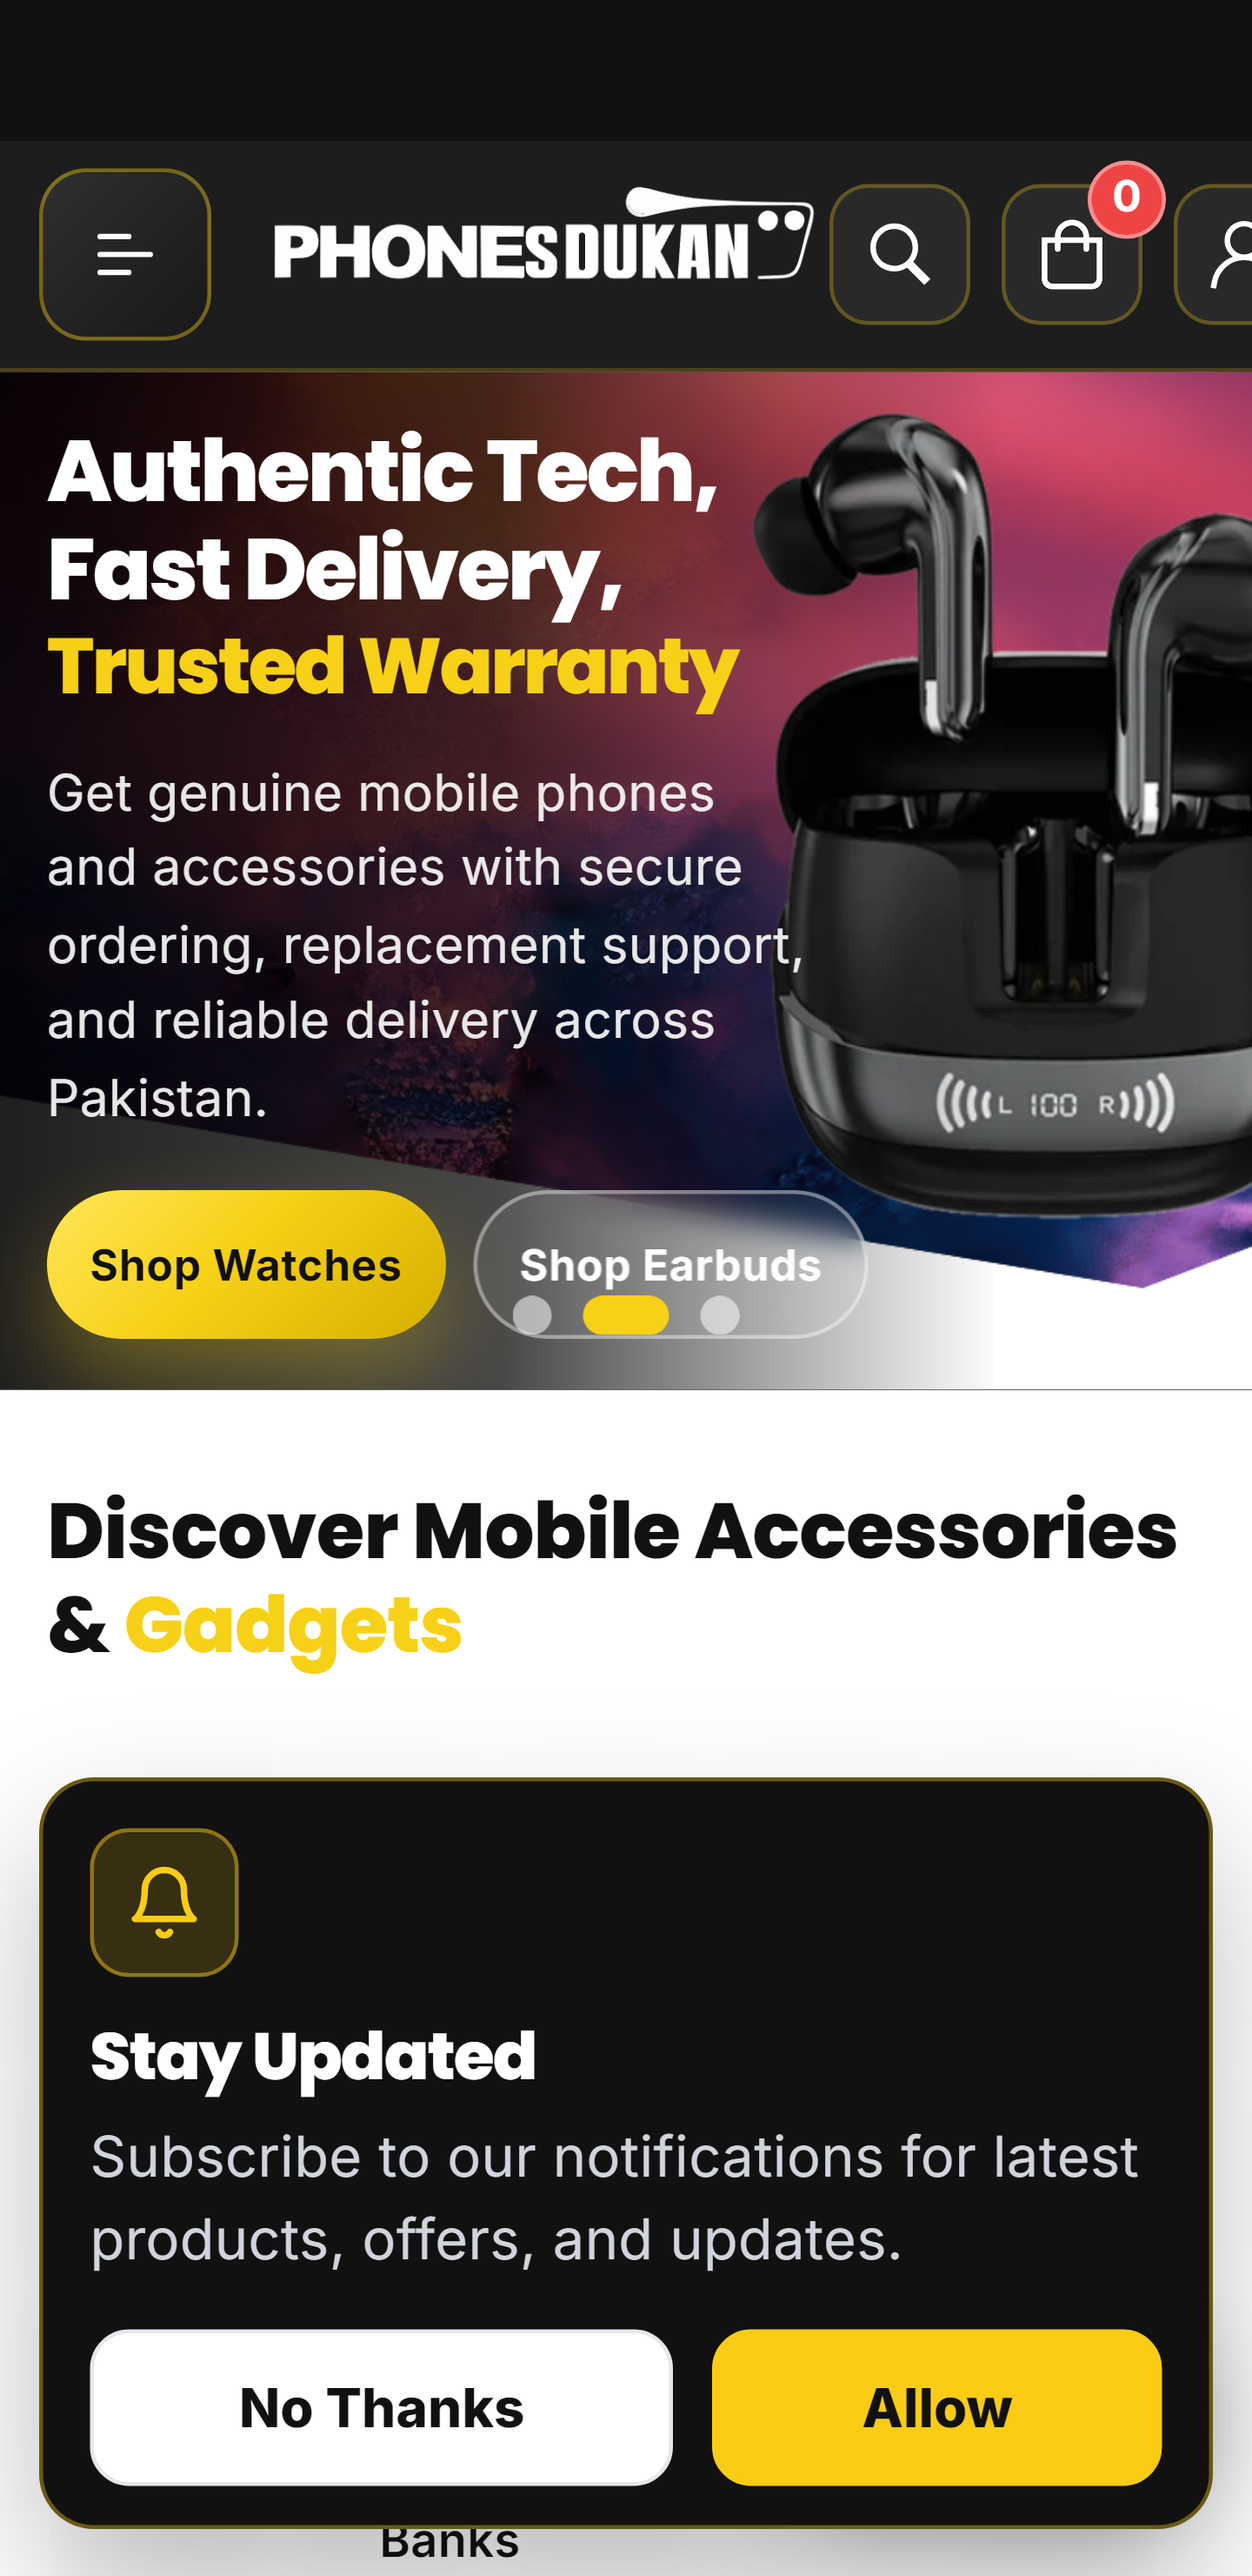
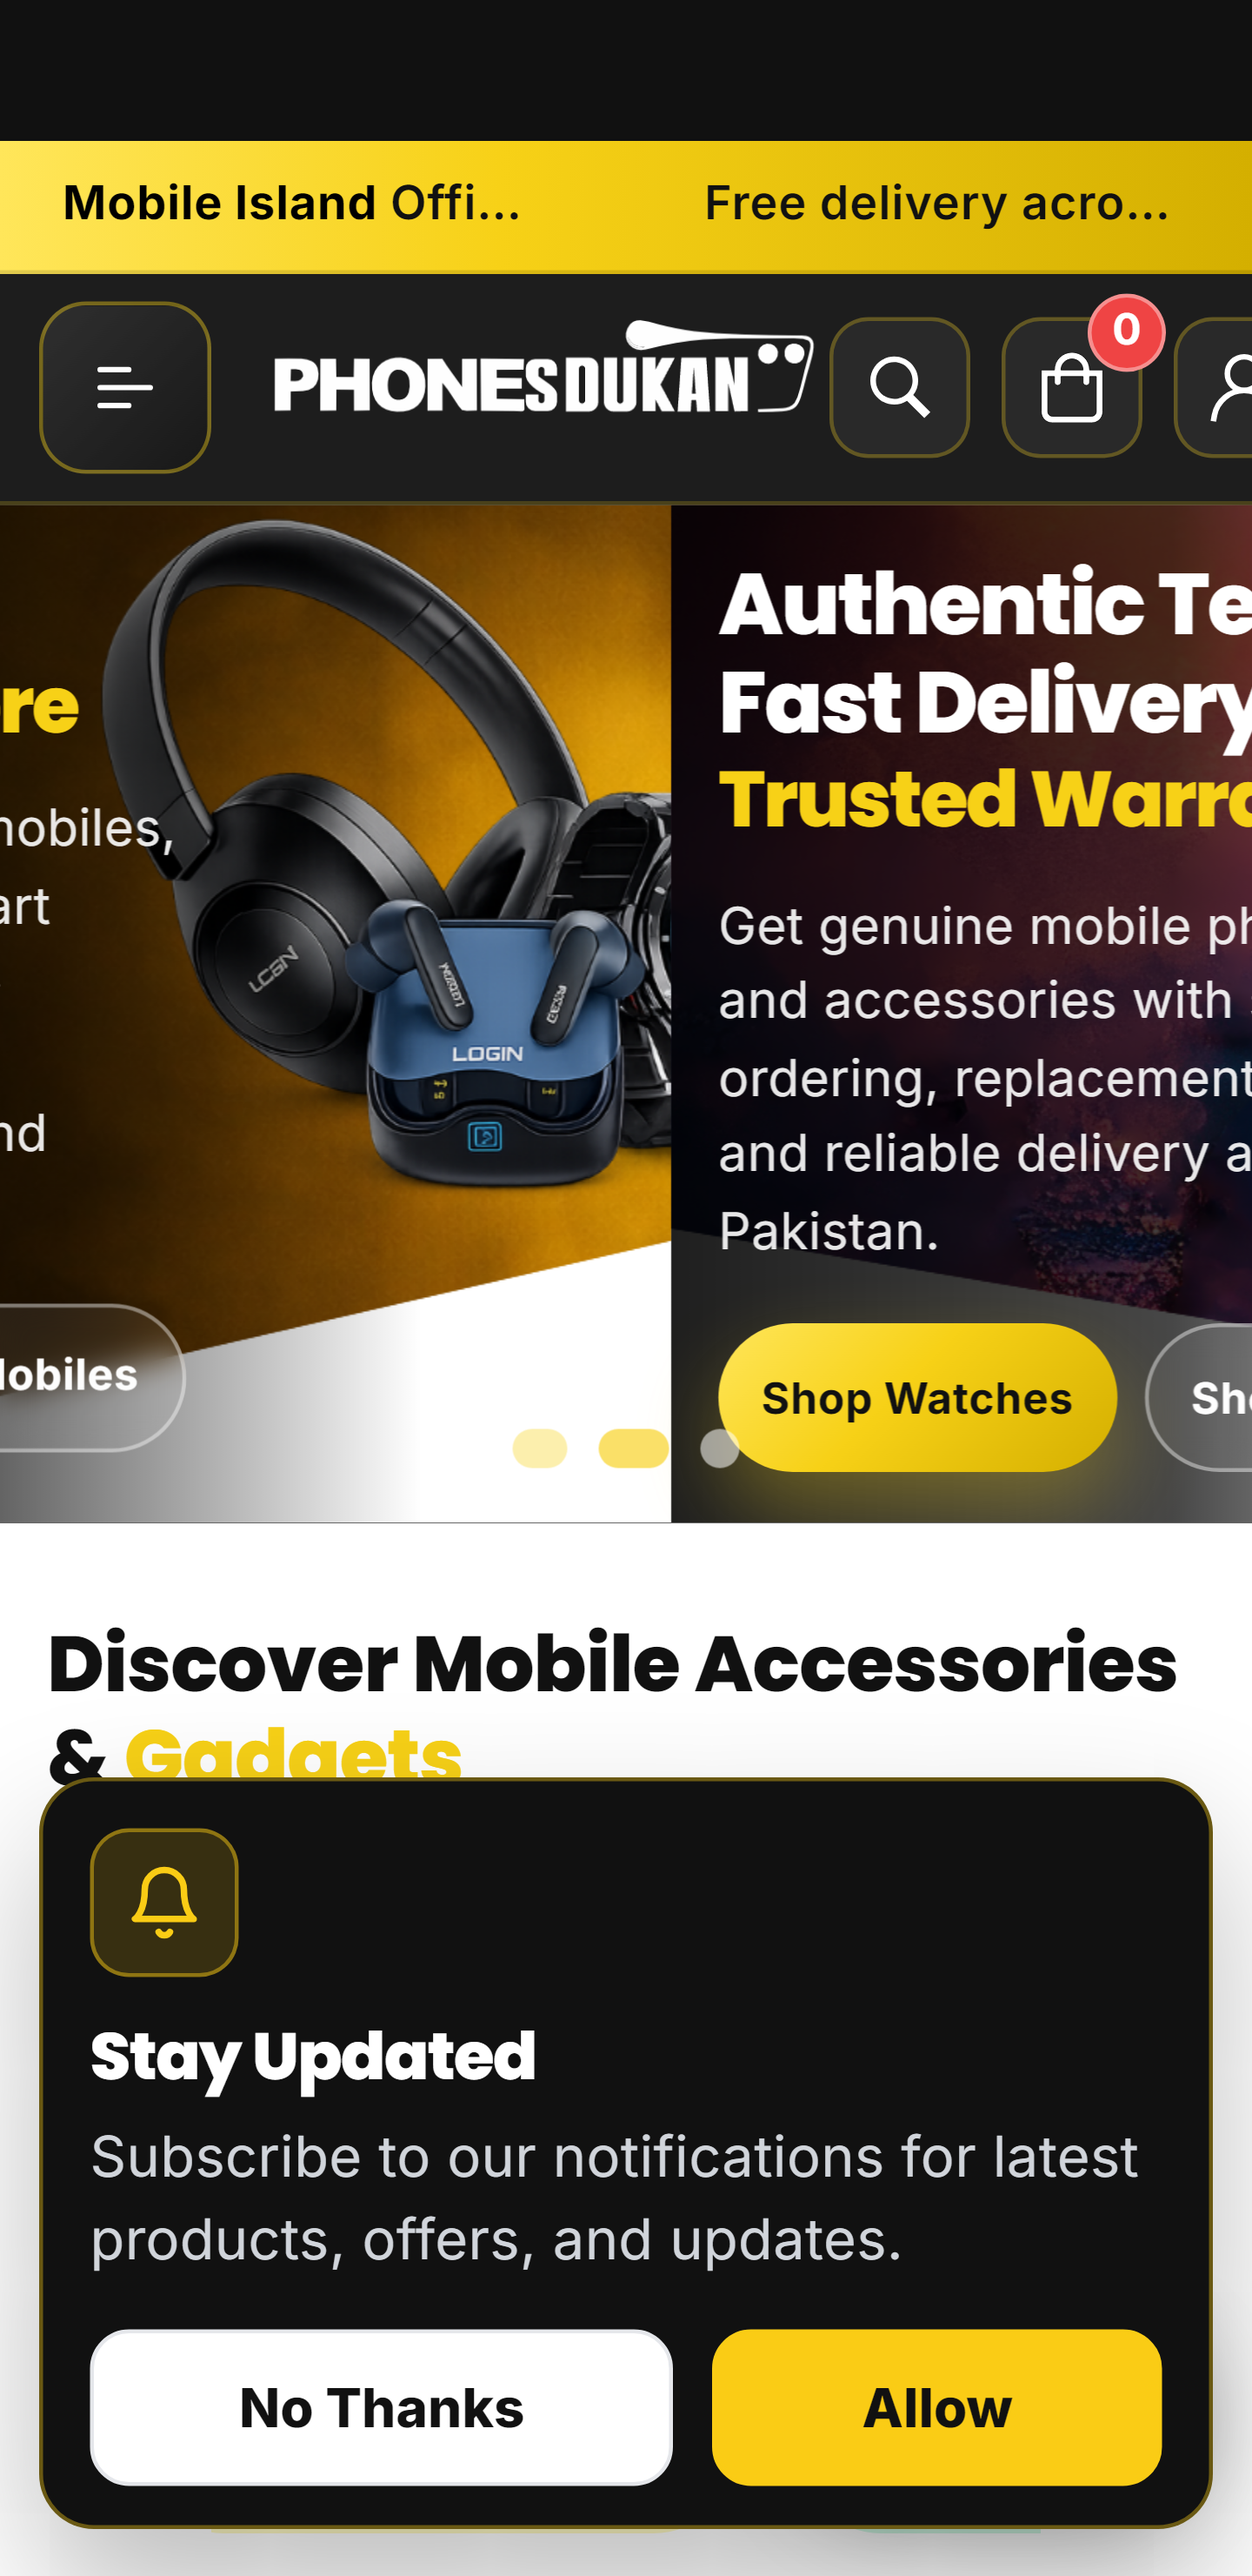
feat: Enhance mobile app experience with dynamic header adjustments
- Implemented logic to detect the Phones Dukan app and adjust the header layout accordingly, improving the user experience for app users.
- Updated CSS styles to manage visibility and layout of elements based on app detection, ensuring a seamless integration with mobile devices.
- Refactored JavaScript to handle app-specific behaviors, including hiding installation prompts and adjusting safe area insets for better display on various devices.

diff --git a/public/assets/css/frontend/header.css b/public/assets/css/frontend/header.css
@@ -1118,14 +1118,43 @@ body.dimmed {
 @media (max-width: 992px) {
   :root {
     --header-height: 58px;
-    --announcement-height: 0px;
+    --announcement-height: 36px;
     --pd-chrome-pad-top: 36px;
-    --pd-chrome-offset: calc(var(--pd-chrome-pad-top) + var(--header-height));
+    --pd-chrome-offset: calc(var(--pd-chrome-pad-top) + var(--announcement-height) + var(--header-height));
   }
 
   html[data-pd-app="1"] {
     --pd-chrome-pad-top: 0px;
-    --pd-chrome-offset: var(--header-height);
+    --pd-chrome-offset: calc(var(--announcement-height) + var(--header-height));
+  }
+
+  html[data-pd-app="1"] .pd-site-chrome {
+    padding-top: 0;
+    top: 0;
+  }
+
+  html[data-pd-app="1"] .pd-status-bar-slot {
+    display: none !important;
+    height: 0 !important;
+    visibility: hidden !important;
+  }
+
+  html[data-pd-app="1"] .pd-site-chrome .pd-top-bars {
+    display: block;
+    height: auto;
+    overflow: hidden;
+  }
+
+  html[data-pd-app="1"] .pd-site-chrome .pd-announcement-bar {
+    display: block;
+    position: relative;
+    top: auto;
+  }
+
+  html[data-pd-app="1"] #pd-install-app-btn,
+  html[data-pd-app="1"] #pd-install-app-panel {
+    display: none !important;
+    visibility: hidden !important;
   }
 
   .pd-site-chrome {
@@ -1158,22 +1187,33 @@ body.dimmed {
   }
 
   html[data-pd-app="1"] .pd-status-bar-slot {
-    display: none;
-    height: 0;
-  }
-
-  .pd-site-chrome .pd-top-bars,
-  .pd-site-chrome .pd-safe-area-top,
-  .pd-site-chrome .pd-announcement-bar {
     display: none !important;
+    height: 0 !important;
+    visibility: hidden !important;
   }
 
+  .pd-site-chrome .pd-safe-area-top {
+    display: none;
+  }
+
+  .pd-site-chrome .pd-top-bars {
+    height: auto;
+    overflow: hidden;
+  }
+
+  .pd-site-chrome .pd-announcement-bar,
   .pd-site-chrome .pd-header-stack {
     position: relative;
     top: auto;
     left: auto;
     right: auto;
     width: 100%;
+  }
+
+  html[data-pd-app="1"] #pd-install-app-btn,
+  html[data-pd-app="1"] #pd-install-app-panel {
+    display: none !important;
+    visibility: hidden !important;
   }
 
   #main-header {

diff --git a/public/assets/js/safe-area.js b/public/assets/js/safe-area.js
@@ -88,6 +88,28 @@
         var chrome = document.getElementById("pd-site-chrome");
         var slot = chrome ? chrome.querySelector(".pd-status-bar-slot") : null;
 
+        if (isPhonesDukanApp()) {
+            root.dataset.pdApp = "1";
+            root.style.setProperty("--pd-chrome-pad-top", "0px");
+            root.style.setProperty("--safe-area-top", "0px");
+            root.style.setProperty("--pd-status-inset", "0px");
+            root.dataset.pdSafeArea = "0";
+            if (chrome) {
+                chrome.style.paddingTop = "0px";
+            }
+            if (slot) {
+                slot.style.display = "none";
+                slot.style.height = "0px";
+            }
+            var viewportMeta = document.querySelector('meta[name="viewport"]');
+            if (viewportMeta && /viewport-fit=cover/i.test(viewportMeta.content || "")) {
+                viewportMeta.content = "width=device-width, initial-scale=1.0";
+            }
+            return;
+        }
+
+        root.removeAttribute("data-pd-app");
+
         root.style.setProperty("--pd-chrome-pad-top", inset + "px");
         root.style.setProperty("--safe-area-top", inset + "px");
         root.style.setProperty("--pd-status-inset", inset + "px");
@@ -97,17 +119,15 @@
             chrome.style.paddingTop = inset + "px";
         }
         if (slot) {
+            slot.style.display = "";
             slot.style.height = inset + "px";
         }
     }
 
     function resolveSafeAreaTop() {
         if (isPhonesDukanApp()) {
-            document.documentElement.dataset.pdApp = "1";
             return 0;
         }
-
-        document.documentElement.removeAttribute("data-pd-app");
 
         if (!isTouchMobile()) {
             return measureEnvSafeArea();

diff --git a/public/assets/js/common.js b/public/assets/js/common.js
@@ -41,9 +41,6 @@ document.addEventListener("DOMContentLoaded", function () {
 
     function initMobileAnnouncement() {
         if (!announcementTrack) return;
-        if (window.matchMedia && window.matchMedia("(max-width: 992px)").matches) {
-            return;
-        }
         const mobileQuery = window.matchMedia("(max-width: 768px)");
         const uniqueItems = Array.from(announcementTrack.querySelectorAll("span")).filter(function (_, index) {
             return index < 3;
@@ -101,9 +98,7 @@ document.addEventListener("DOMContentLoaded", function () {
         const root = document.documentElement;
         const siteChrome = document.getElementById("pd-site-chrome");
         const isMobile = window.matchMedia && window.matchMedia("(max-width: 992px)").matches;
-        if (isMobile) {
-            root.style.setProperty("--announcement-height", "0px");
-        } else if (announcementTrack) {
+        if (announcementTrack) {
             root.style.setProperty("--announcement-height", announcementTrack.offsetHeight + "px");
         }
         if (headerStack) {

diff --git a/public/assets/js/pwa-install.js b/public/assets/js/pwa-install.js
@@ -11,6 +11,19 @@ document.addEventListener('DOMContentLoaded', function () {
 
     if (!installBtn || !installPanel || !downloadUrl) return;
 
+    function isPhonesDukanApp() {
+        return /PhonesDukanApp/i.test(window.navigator.userAgent || '')
+            || document.documentElement.dataset.pdApp === '1';
+    }
+
+    if (isPhonesDukanApp()) {
+        installBtn.classList.add('pd-install-hidden');
+        installPanel.classList.add('pd-install-hidden');
+        installBtn.setAttribute('aria-hidden', 'true');
+        installPanel.setAttribute('aria-hidden', 'true');
+        return;
+    }
+
     var isOpen = false;
     var isDownloading = false;
 

diff --git a/public/assets/css/frontend/pwa-install.css b/public/assets/css/frontend/pwa-install.css
@@ -32,7 +32,11 @@
 #pd-install-app-btn svg {
     flex-shrink: 0;
 }
-#pd-install-app-btn.pd-install-hidden {
+#pd-install-app-btn.pd-install-hidden,
+#pd-install-app-panel.pd-install-hidden,
+html[data-pd-app="1"] #pd-install-app-btn,
+html[data-pd-app="1"] #pd-install-app-panel {
+    display: none !important;
     opacity: 0;
     visibility: hidden;
     pointer-events: none;

diff --git a/includes/header.php b/includes/header.php
@@ -70,13 +70,19 @@ $stockQty            = isset($product['stock_quantity']) && is_numeric($product[
 $productAvailability = (isset($product['product_status']) && (int)$product['product_status'] === 1 && $stockQty > 0) ? 'instock' : 'outofstock';
 $productImage        = isset($images[0]['image_url']) ? getBaseURL() . ltrim($images[0]['image_url'], '/') : $ogImage;
 $productImageAlt     = isset($product['product_name']) ? $product['product_name'] : 'Phones Dukan';
+$isPdApp             = !empty($_SERVER['HTTP_USER_AGENT']) && stripos($_SERVER['HTTP_USER_AGENT'], 'PhonesDukanApp') !== false;
 ?>
 <!DOCTYPE html>
-<html lang="en">
+<html lang="en"<?= $isPdApp ? ' data-pd-app="1"' : '' ?>>
 <head>
     <!-- Required Meta -->
 <meta charset="UTF-8">
-<meta name="viewport" content="width=device-width, initial-scale=1.0, viewport-fit=cover">
+<script>
+if (/PhonesDukanApp/i.test(navigator.userAgent || "")) {
+    document.documentElement.setAttribute("data-pd-app", "1");
+}
+</script>
+<meta name="viewport" content="width=device-width, initial-scale=1.0<?= $isPdApp ? '' : ', viewport-fit=cover' ?>">
 <style id="pd-safe-top-fix">
 :root {
     --pd-chrome-pad-top: 0px;
@@ -87,13 +93,37 @@ $productImageAlt     = isset($product['product_name']) ? $product['product_name'
 @media (max-width: 992px) {
     :root {
         --header-height: 58px;
-        --announcement-height: 0px;
+        --announcement-height: 36px;
         --pd-chrome-pad-top: 36px;
-        --pd-chrome-offset: calc(var(--pd-chrome-pad-top) + var(--header-height));
+        --pd-chrome-offset: calc(var(--pd-chrome-pad-top) + var(--announcement-height) + var(--header-height));
     }
     html[data-pd-app="1"] {
         --pd-chrome-pad-top: 0px;
-        --pd-chrome-offset: var(--header-height);
+        --pd-chrome-offset: calc(var(--announcement-height) + var(--header-height));
+    }
+    html[data-pd-app="1"] #pd-site-chrome {
+        padding-top: 0 !important;
+        top: 0 !important;
+    }
+    html[data-pd-app="1"] #pd-site-chrome .pd-status-bar-slot {
+        display: none !important;
+        height: 0 !important;
+        visibility: hidden !important;
+    }
+    html[data-pd-app="1"] #pd-site-chrome .pd-top-bars {
+        display: block !important;
+        height: auto !important;
+        overflow: hidden !important;
+    }
+    html[data-pd-app="1"] #pd-site-chrome .pd-announcement-bar {
+        display: block !important;
+        position: relative !important;
+        top: auto !important;
+    }
+    html[data-pd-app="1"] #pd-install-app-btn,
+    html[data-pd-app="1"] #pd-install-app-panel {
+        display: none !important;
+        visibility: hidden !important;
     }
     #pd-site-chrome {
         position: fixed !important;
@@ -124,16 +154,24 @@ $productImageAlt     = isset($product['product_name']) ? $product['product_name'
         display: none;
         height: 0;
     }
-    #pd-site-chrome .pd-top-bars,
     #pd-site-chrome .pd-safe-area-top {
         display: none !important;
     }
+    #pd-site-chrome .pd-top-bars {
+        height: auto !important;
+        overflow: hidden !important;
+    }
+    #pd-site-chrome .pd-announcement-bar,
     #pd-site-chrome .pd-header-stack {
         position: relative !important;
         top: auto !important;
         left: auto !important;
         right: auto !important;
         width: 100% !important;
+    }
+    html[data-pd-app="1"] #pd-install-app-btn,
+    html[data-pd-app="1"] #pd-install-app-panel {
+        display: none !important;
     }
 }
 @media (max-width: 575px) {
@@ -213,8 +251,18 @@ $productImageAlt     = isset($product['product_name']) ? $product['product_name'
         if (isApp()) {
             root.dataset.pdApp = "1";
             root.style.setProperty("--pd-chrome-pad-top", "0px");
-            if (chrome) chrome.style.paddingTop = "0px";
-            if (slot) slot.style.height = "0px";
+            root.style.setProperty("--safe-area-top", "0px");
+            if (chrome) {
+                chrome.style.paddingTop = "0px";
+            }
+            if (slot) {
+                slot.style.display = "none";
+                slot.style.height = "0px";
+            }
+            var viewportMeta = document.querySelector('meta[name="viewport"]');
+            if (viewportMeta && /viewport-fit=cover/i.test(viewportMeta.content || "")) {
+                viewportMeta.content = "width=device-width, initial-scale=1.0";
+            }
             root.dataset.pdSafeArea = "0";
             return;
         }
